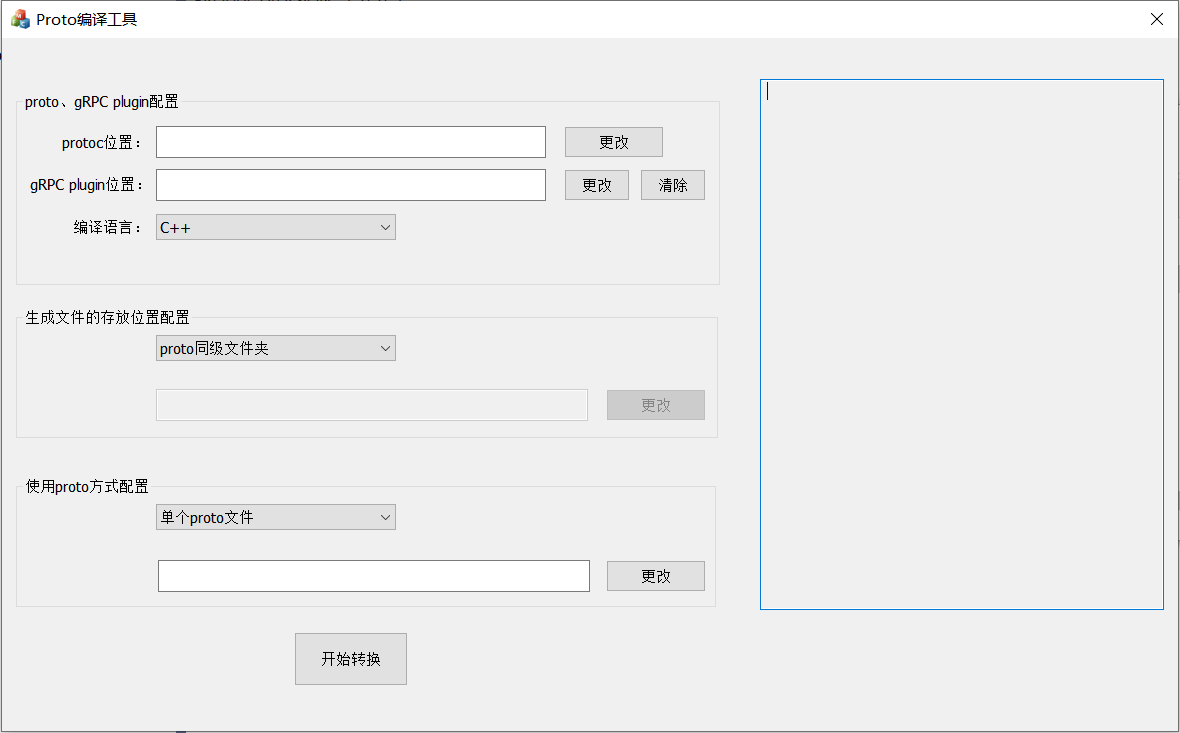
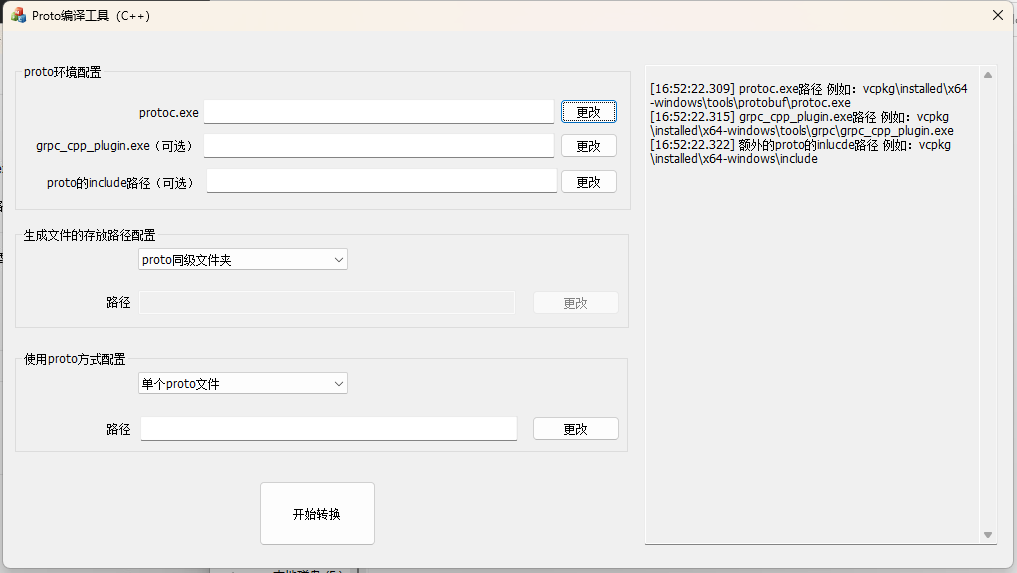
更新README。

diff --git a/README.md b/README.md
@@ -2,7 +2,7 @@
 Proto界面编译辅助工具。支持protobuffer及gRPC的代码生成。
 # 概述
 本软件是protoc.exe的界面辅助工具。调用protoc.exe，将proto文件编译为对应编程语言，并支持gRPC生成插件。
-由于本人目前一般只使用C++，因此虽然理论上支持其他编译语言，但不保证能正常使用。
+由于仅支持生成C++代码。
 ![](https://raw.githubusercontent.com/tilongzs/ProtoCompileTool/master/doc/screenshot.png)
 
 # 编译环境
@@ -13,10 +13,9 @@ Proto界面编译辅助工具。支持protobuffer及gRPC的代码生成。
 # 使用方法
 
 ###  proto、gRPC plugin配置
-1. 在“protoc位置”编辑框里输入protoc.exe的路径。
-1. 【可选】在“gRPC plugin位置”编辑框里输入gRPC插件（如grpc_cpp_plugin.exe）的路径。
-1. 在“编译语言”下拉菜单中选择要使用的编译语言。
-
+1. 输入protoc.exe的路径。
+1. 【可选】输入gRPC插件（grpc_cpp_plugin.exe）的路径。
+1. 【可选】输入proto的include文件夹的路径。
 
 ###  生成文件的存放位置配置
 
@@ -26,7 +25,7 @@ Proto界面编译辅助工具。支持protobuffer及gRPC的代码生成。
 
 可以选择单个proto文件，在编辑框里输入proto文件路径。
 
-也可以指定proto文件的文件夹，在编辑框里输入文件夹的路径，这将会把整个文件夹（**不包含**子文件夹）下的所有proto文件转换。
+也可以指定proto文件的文件夹，在编辑框里输入文件夹的路径，这将会把整个文件夹（**不递归包含**子文件夹）下的所有proto文件转换。
 
 ### 开始转换
 
